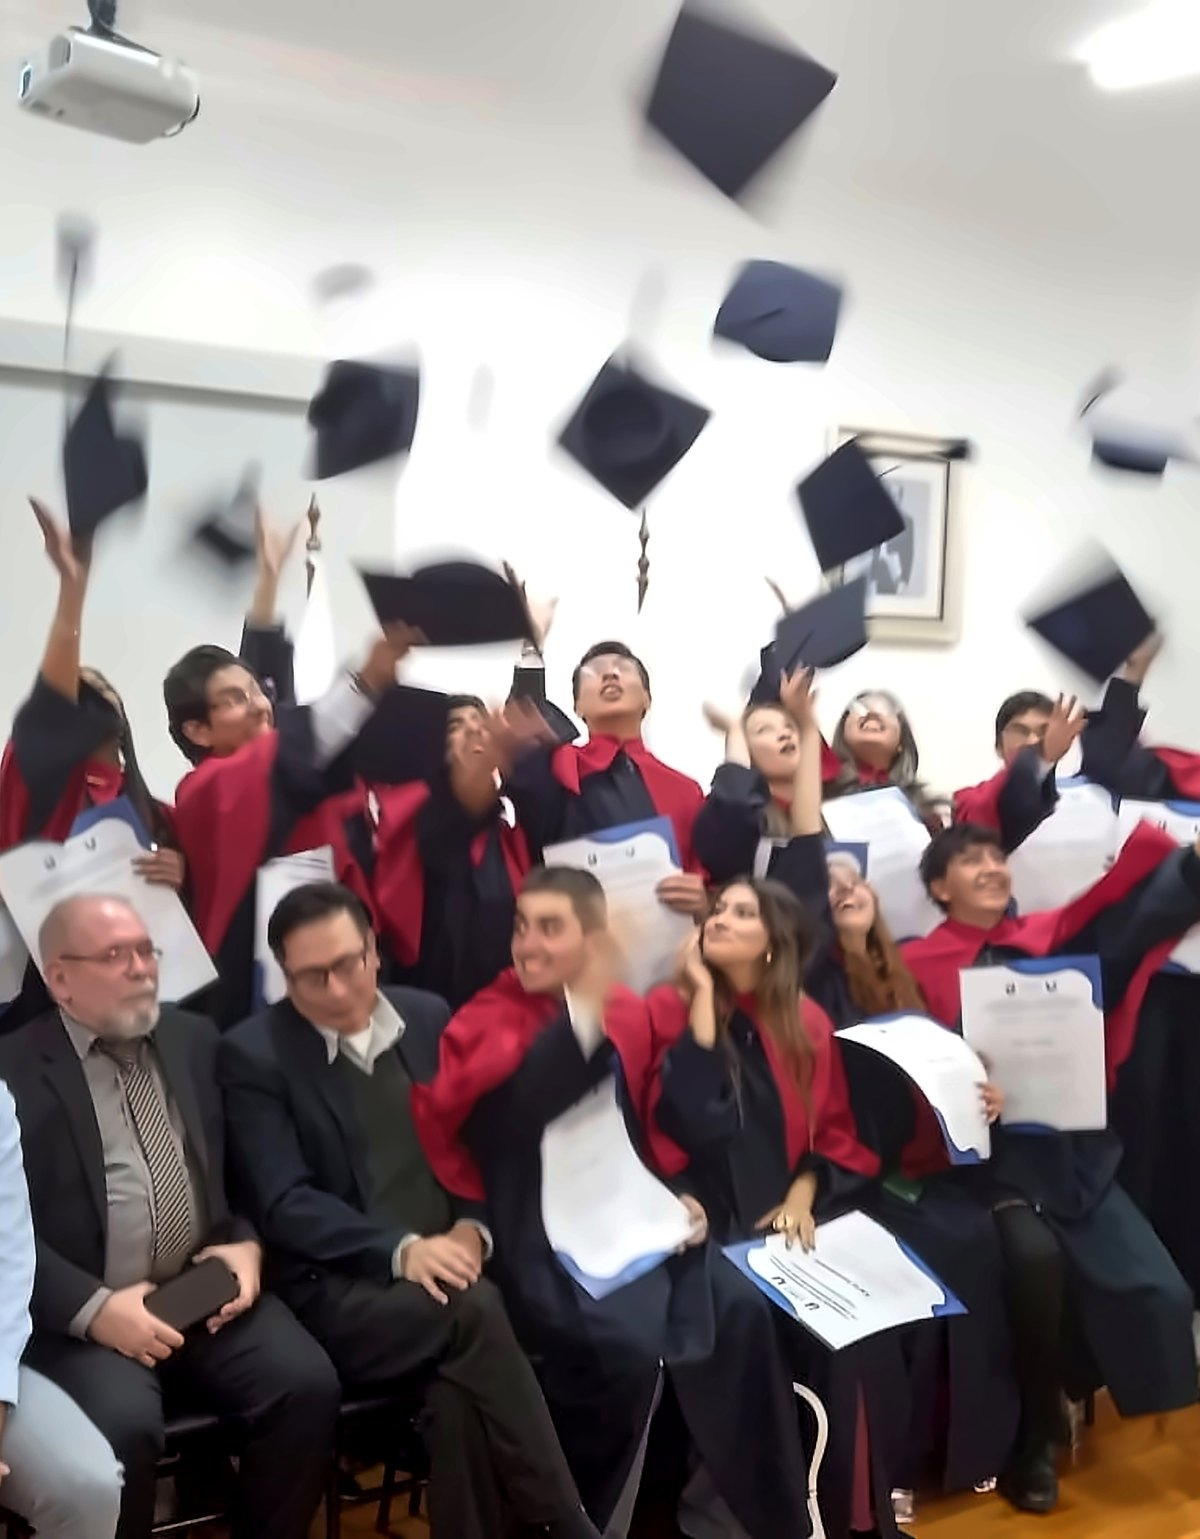
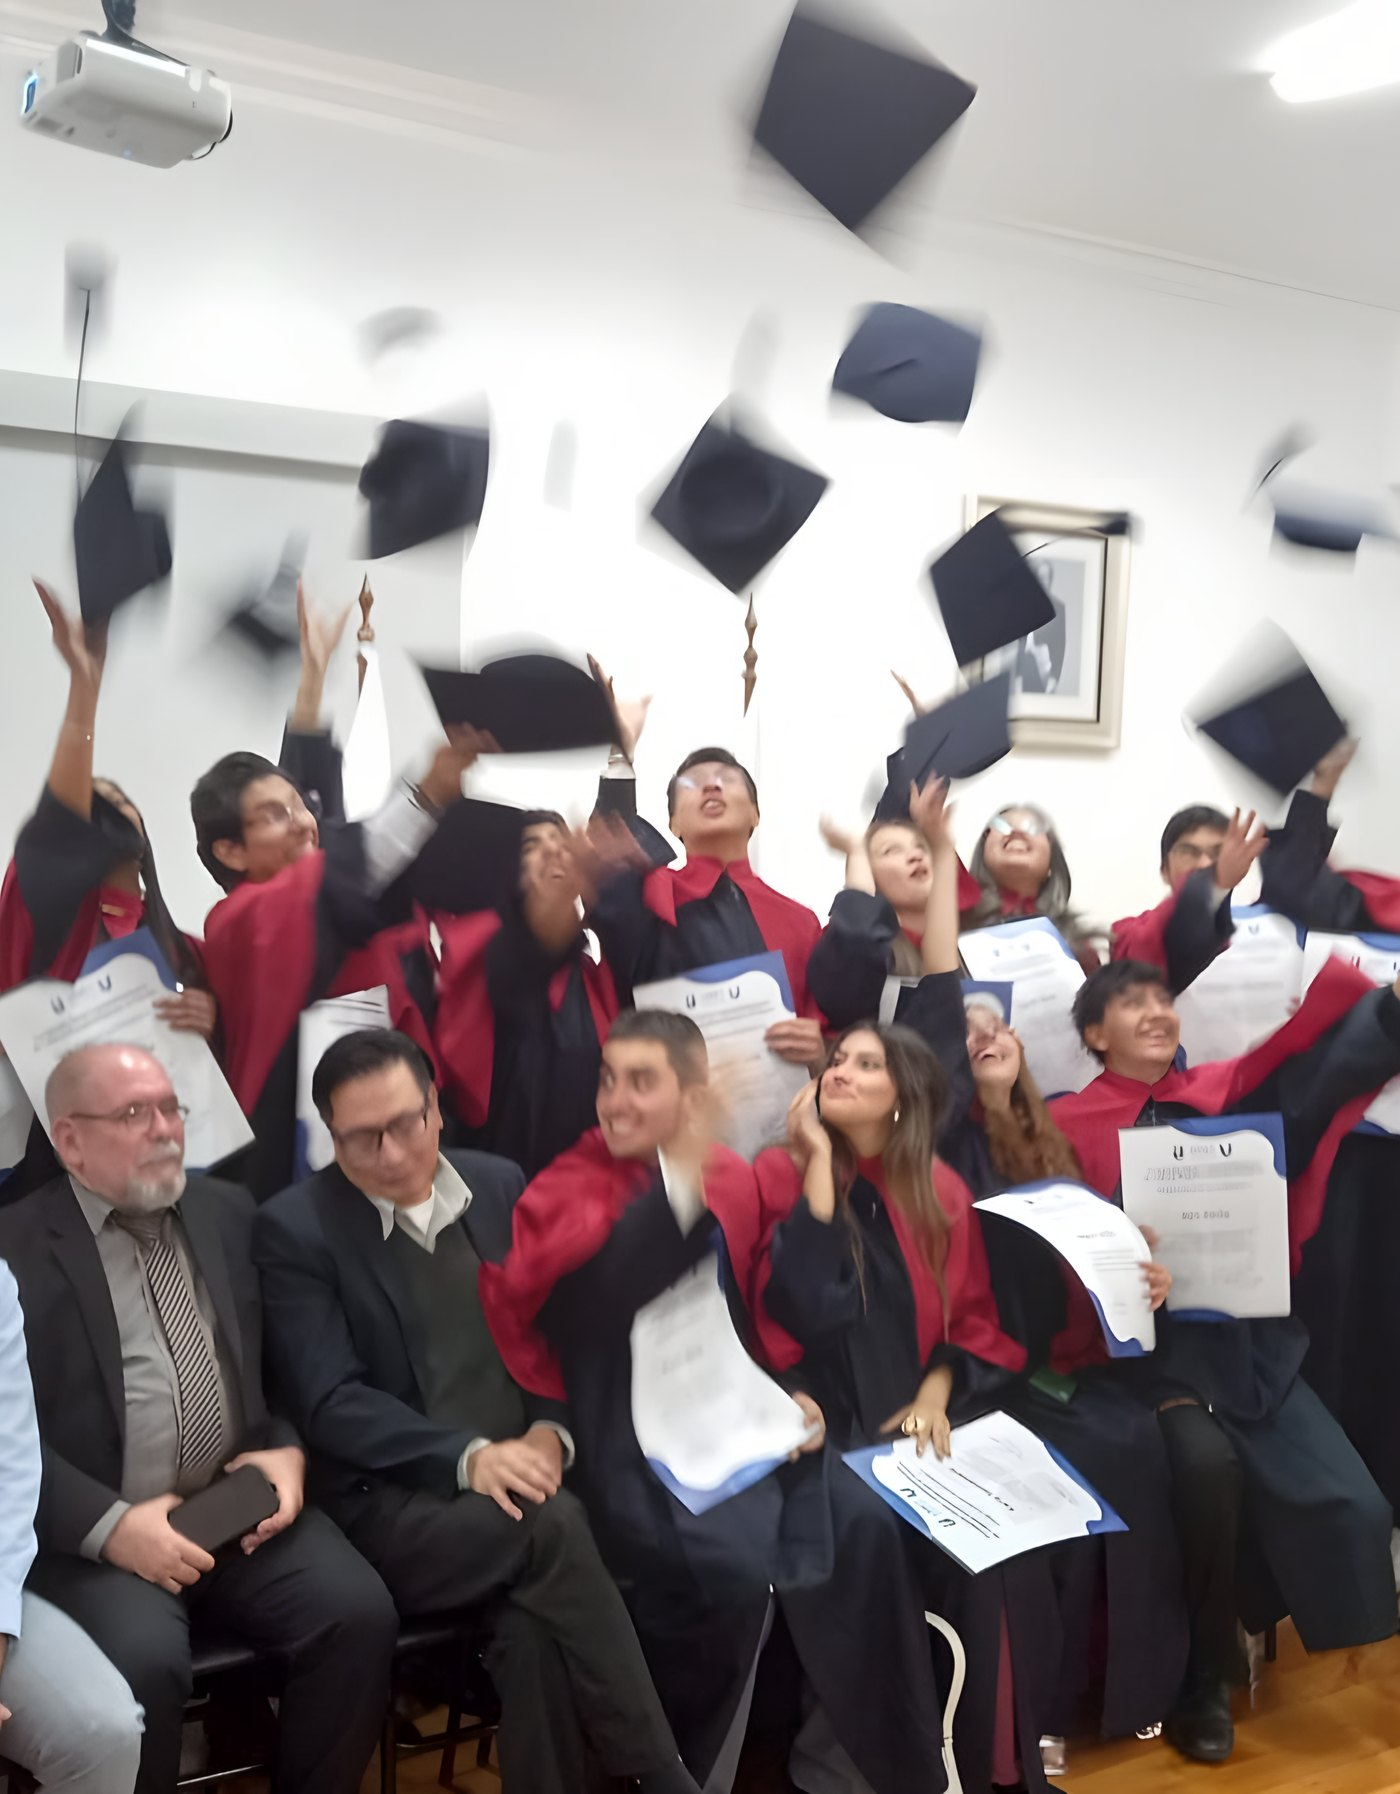
Hero: foto de la graduación reconstruida con Real-ESRGAN (x4) para computadora y celular
Claude-Session: https://claude.ai/code/session_01K9M6rJqN73thwacjQy3Wv7

Changed region(s): [[0.5242, 0.3431, 0.555, 0.3743]]

diff --git a/index.html b/index.html
@@ -196,7 +196,7 @@
       <source media="(max-width:760px)" srcset="/assets/fotos/hero-graduacion-movil.webp" type="image/webp">
       <source media="(max-width:760px)" srcset="/assets/fotos/hero-graduacion-movil.jpg">
       <source srcset="/assets/fotos/hero-graduacion.webp" type="image/webp">
-      <picture><source type="image/webp" srcset="/assets/fotos/hero-graduacion.webp"><img src="/assets/fotos/hero-graduacion.jpg" width="2560" height="1920" fetchpriority="high" decoding="async" alt="Graduación de una generación de ELECTI lanzando los birretes al aire"></picture>
+      <picture><source type="image/webp" srcset="/assets/fotos/hero-graduacion.webp"><img src="/assets/fotos/hero-graduacion.jpg" width="2880" height="2160" fetchpriority="high" decoding="async" alt="Graduación de una generación de ELECTI lanzando los birretes al aire"></picture>
     </picture>
     <div class="hf-in">
       <div class="hf-txt">

diff --git a/src/paginas/home.html b/src/paginas/home.html
@@ -14,7 +14,7 @@ archivo: index.html
       <source media="(max-width:760px)" srcset="/assets/fotos/hero-graduacion-movil.webp" type="image/webp">
       <source media="(max-width:760px)" srcset="/assets/fotos/hero-graduacion-movil.jpg">
       <source srcset="/assets/fotos/hero-graduacion.webp" type="image/webp">
-      <img src="/assets/fotos/hero-graduacion.jpg" width="2560" height="1920" fetchpriority="high" decoding="async" alt="Graduación de una generación de ELECTI lanzando los birretes al aire">
+      <img src="/assets/fotos/hero-graduacion.jpg" width="2880" height="2160" fetchpriority="high" decoding="async" alt="Graduación de una generación de ELECTI lanzando los birretes al aire">
     </picture>
     <div class="hf-in">
       <div class="hf-txt">
